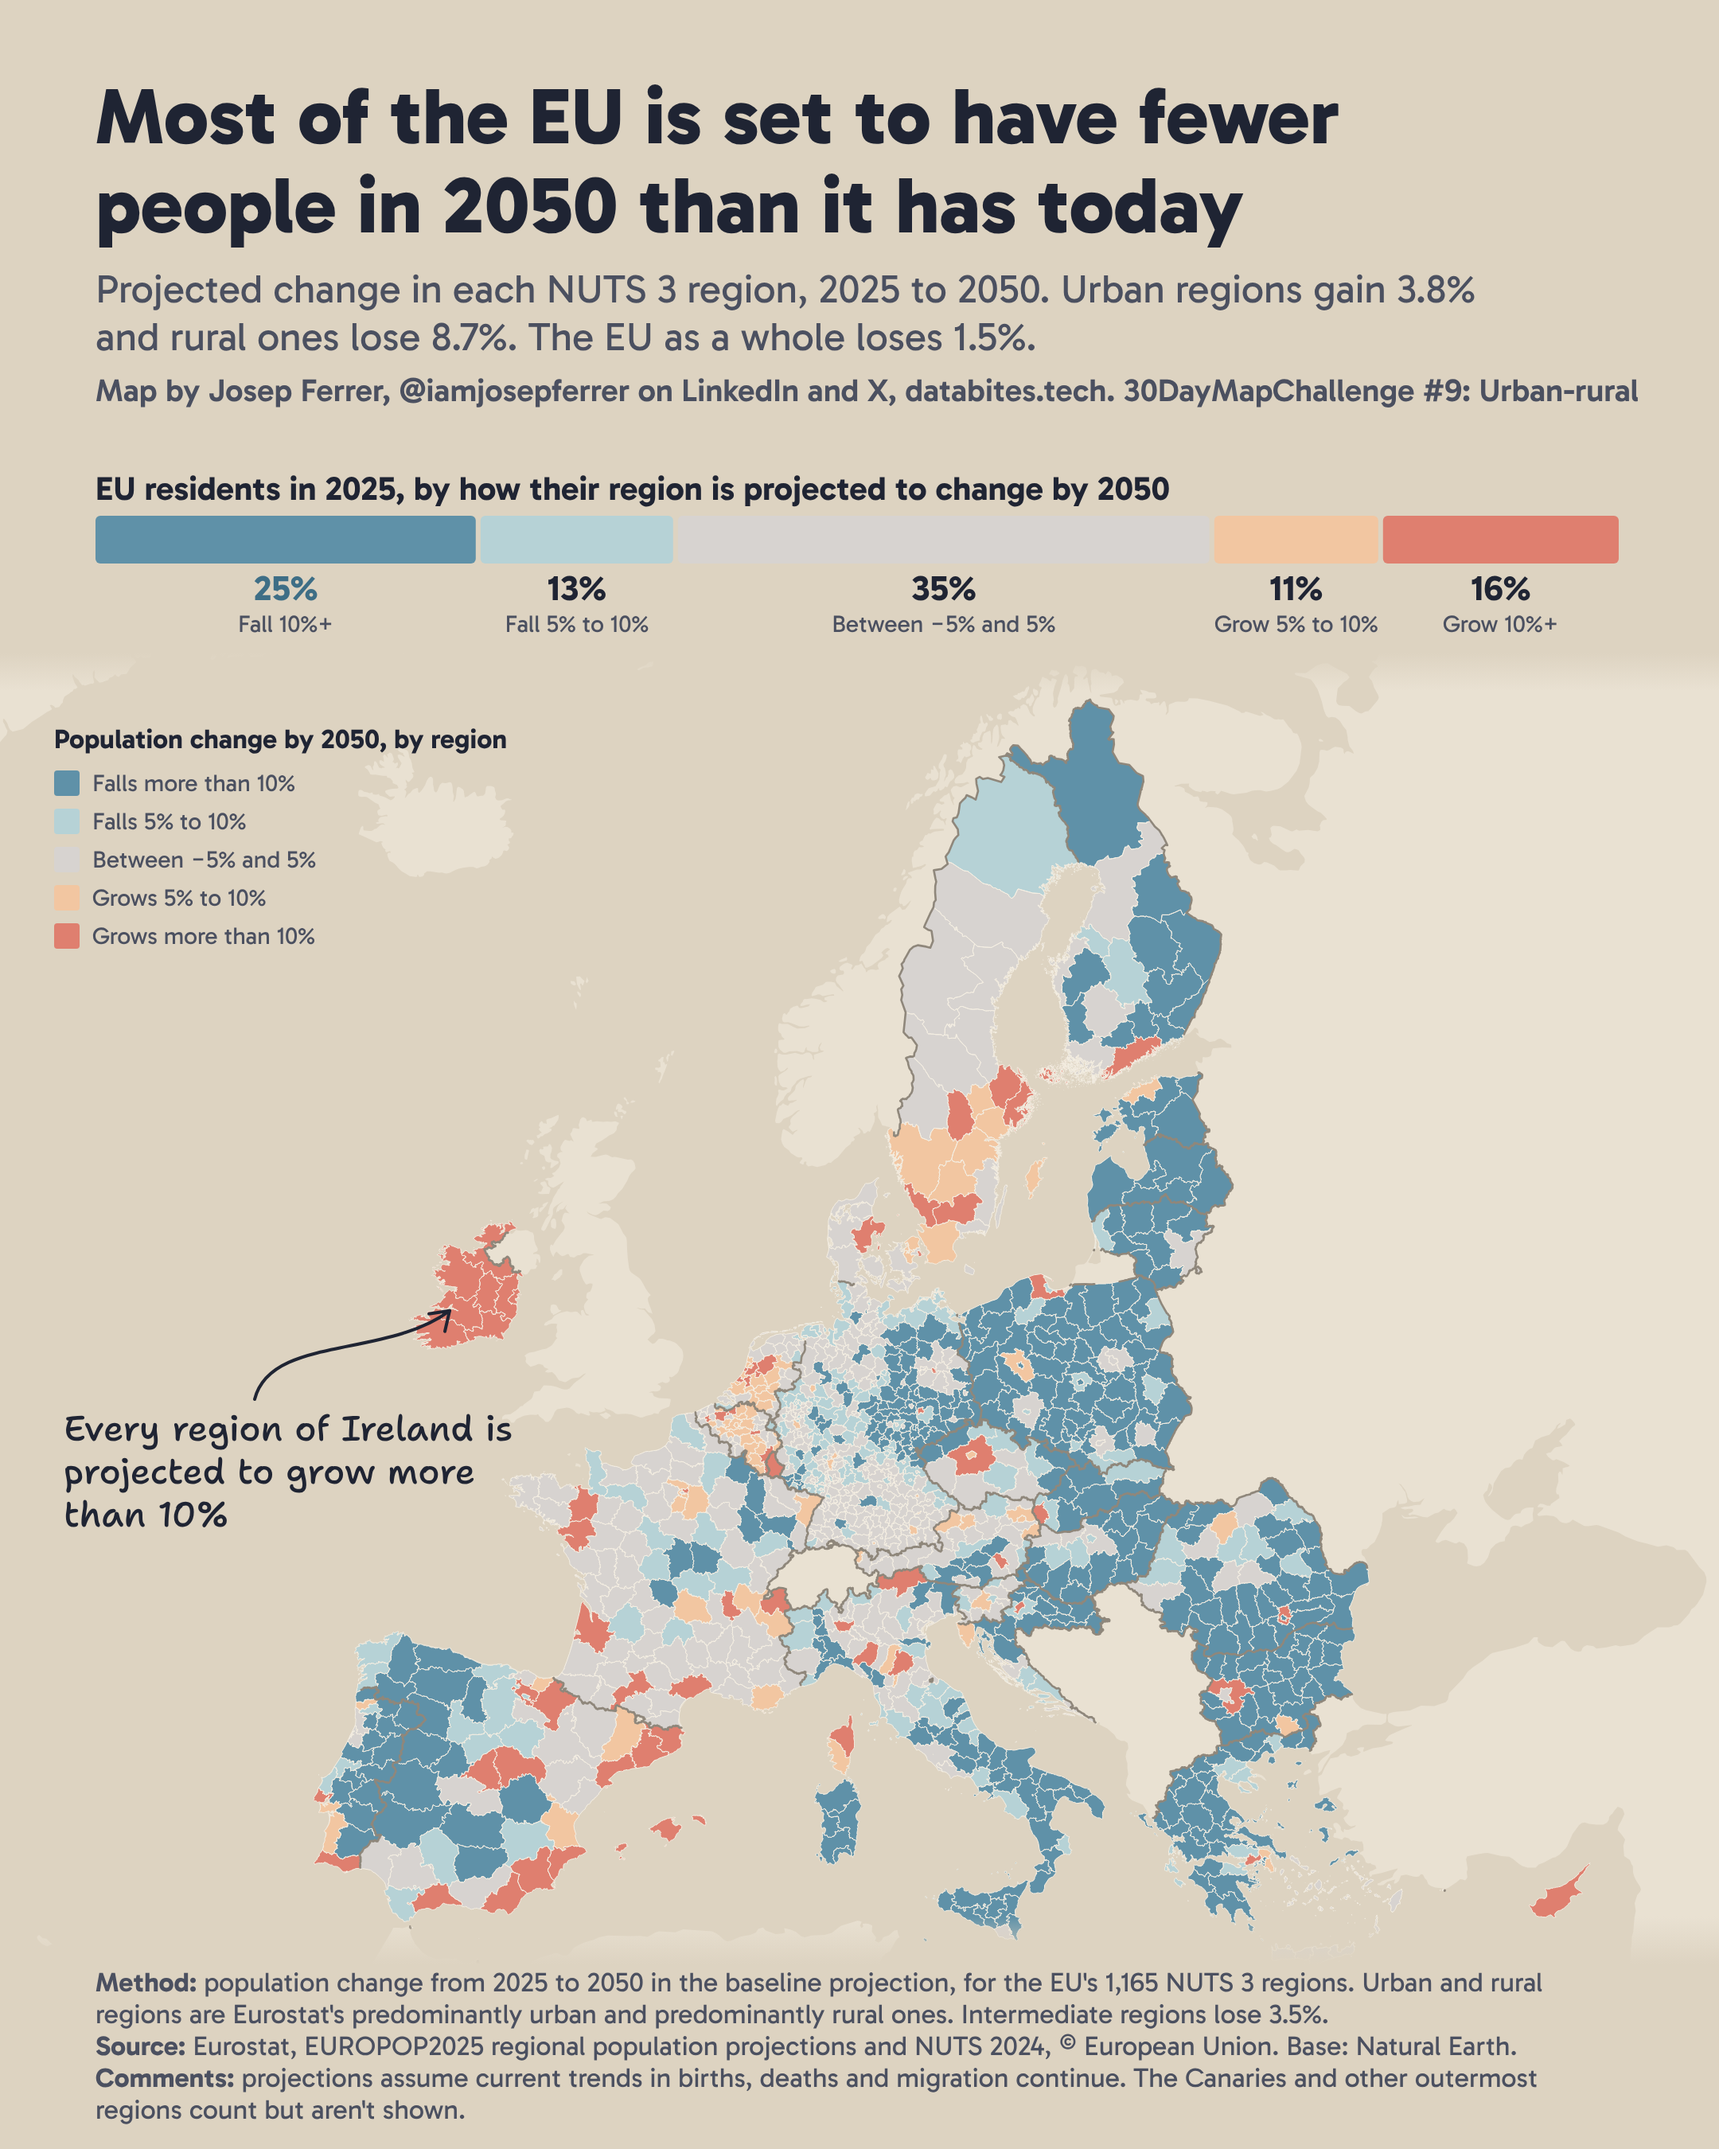
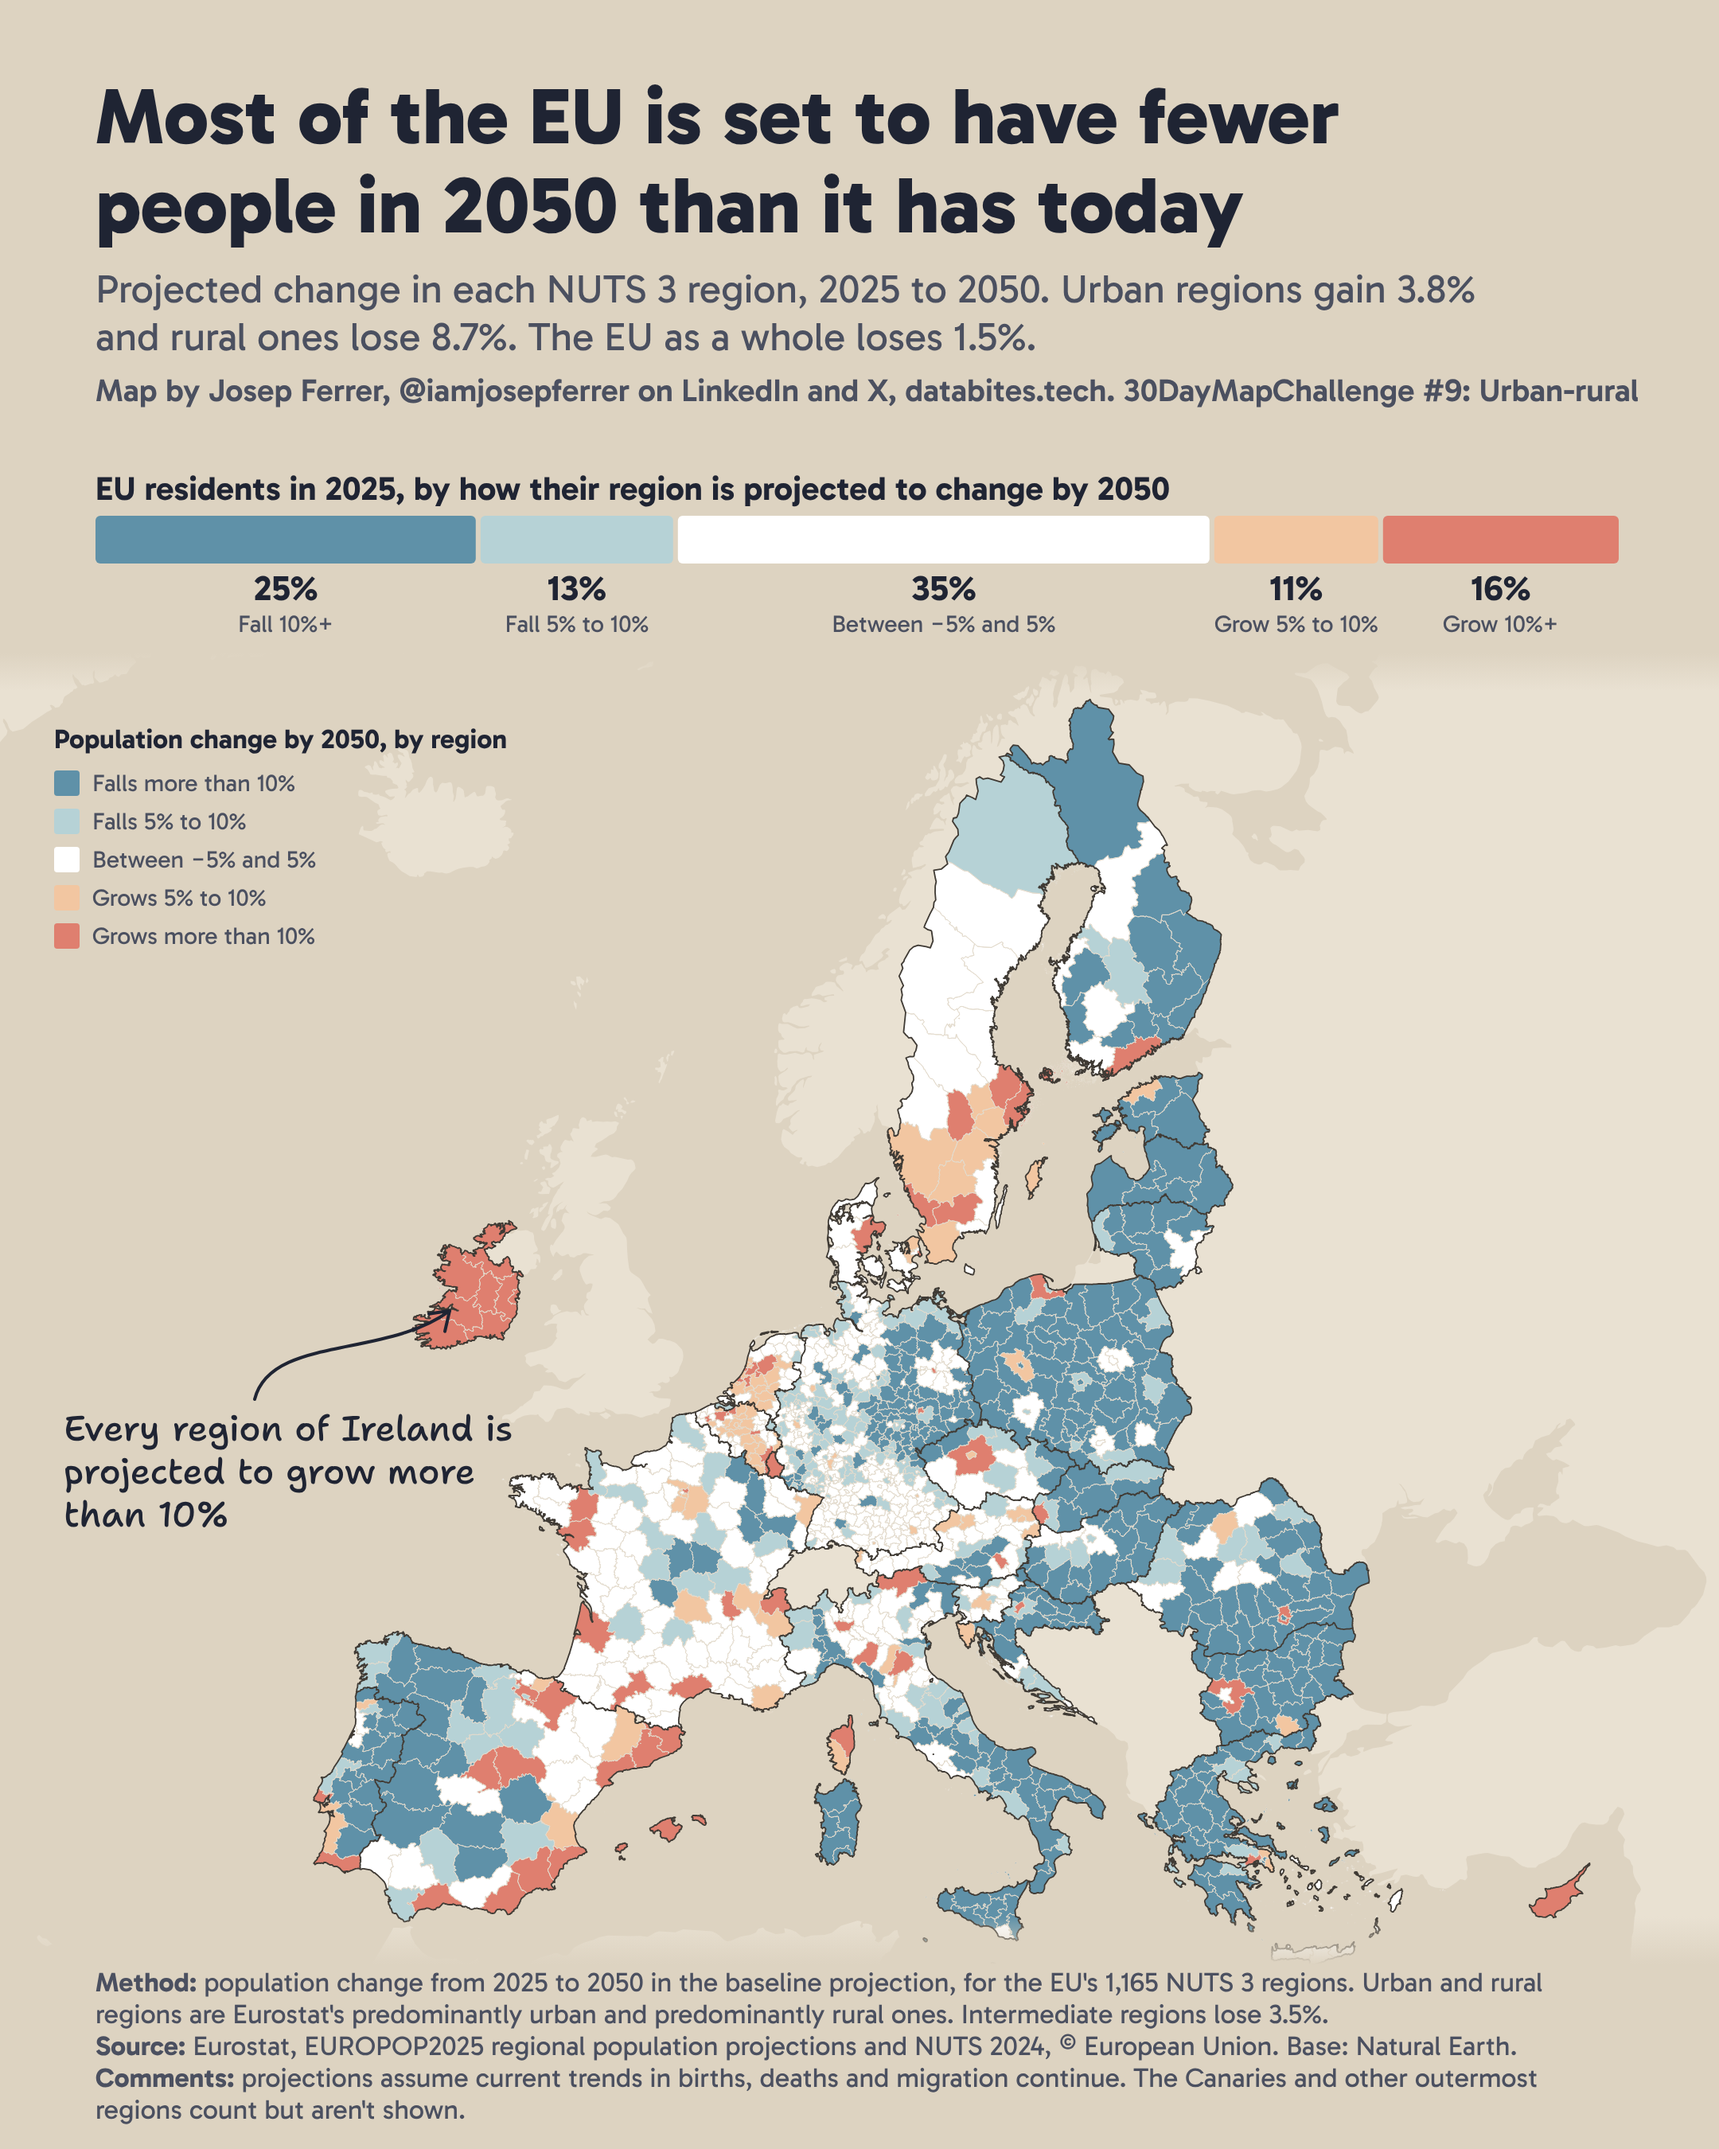
Day 9: full country outlines, white middle band, darker borders

diff --git a/2026/day09_urban_rural/day09_urban_rural.py b/2026/day09_urban_rural/day09_urban_rural.py
@@ -21,17 +21,15 @@ from style import C, DATA_DIR, Frame, _download, byline, countries, fade_defs, f
 PROJ_URL = ("https://ec.europa.eu/eurostat/api/dissemination/statistics/1.0/data/proj_25rp5"
             "?format=JSON&lang=EN&sex=T&age=TOTAL&projection=BSL&time=2025&time=2050&time=2100")
 NUTS3_URL = "https://gisco-services.ec.europa.eu/distribution/v2/nuts/geojson/NUTS_RG_01M_2024_3035_LEVL_3.geojson"
-NE = "https://raw.githubusercontent.com/nvkelso/natural-earth-vector/master/geojson/"
 YEAR = "2050"
 BANDS = [  # upper bound of the change in %, colour, legend label, bar label
     (-10, "#5F91A8", "Falls more than 10%", "Fall 10%+"),
     (-5, "#B6D2D6", "Falls 5% to 10%", "Fall 5% to 10%"),
-    (5, "#D7D3D0", "Between −5% and 5%", "Between −5% and 5%"),
+    (5, "#FFFFFF", "Between −5% and 5%", "Between −5% and 5%"),
     (10, "#F2C6A1", "Grows 5% to 10%", "Grow 5% to 10%"),
     (np.inf, "#DF7F6F", "Grows more than 10%", "Grow 10%+"),
 ]
-DARK_BLUE = "#3E6E86"  # the first band's colour, darkened for text
-BORDER = "#8F877B"  # country borders: a soft warm grey that still shows on the light grey regions
+BORDER = "#3F3A34"  # country borders: a dark warm grey, thin, so it stands apart from the strong blue and the white
 
 
 def band(change):
@@ -84,24 +82,15 @@ for b, (_, colour, _, _) in enumerate(BANDS):
     regions = shown[shown["band"] == b].geometry.simplify(300).intersection(view).union_all()
     svg.append(f'<path d="{geom_path(regions, frame)}" fill="{colour}"/>')
 outlines = "".join(geom_path(g, frame) for g in shown.geometry.simplify(300).intersection(view))
-svg.append(f'<path d="{outlines}" fill="none" stroke="{C["page"]}" stroke-width=".5" stroke-linejoin="round"/>')
-# Country borders on land, in soft grey: the parts of each EU country's outline that touch another country
+svg.append(f'<path d="{outlines}" fill="none" stroke="#E4DCCE" stroke-width=".5" stroke-linejoin="round"/>')
+# Country outlines, coasts included, in soft grey. Each shared border is drawn once, from the merged outlines.
 eu_countries = shown.dissolve("CNTR_CODE").geometry.simplify(300)
-others = gpd.read_file(_download(NE + "ne_10m_admin_0_countries.geojson", DATA_DIR / "ne_10m_admin_0_countries.geojson")).to_crs(3035).clip(view.buffer(200000))
-others = others[~others.ISO_A2_EH.isin(["AT", "BE", "BG", "HR", "CY", "CZ", "DK", "EE", "FI", "FR", "DE", "GR", "HU", "IE", "IT", "LV",
-                                        "LT", "LU", "MT", "NL", "PL", "PT", "RO", "SK", "SI", "ES", "SE"])
-                & ~others.ADMIN.str.contains("Cyprus|Dhekelia|Akrotiri|Aland")].geometry.buffer(0).union_all()  # parts of EU regions in Natural Earth
-coast = gpd.read_file(_download(NE + "ne_10m_land.geojson", DATA_DIR / "ne_10m_land.geojson")).to_crs(3035).clip(view).boundary.union_all().buffer(1500)
-codes = list(eu_countries.index)
-lines = []
-for i, code in enumerate(codes):
-    # each border is taken once, from the country that comes first alphabetically, so the two sides never overlap
-    neighbours = eu_countries.loc[codes[i + 1:]].buffer(1500).union_all().union(others.buffer(4000))
-    piece = eu_countries[code].boundary.intersection(neighbours).intersection(view).difference(coast)  # no outline for islands a strait away, such as Samos
-    piece = shapely.line_merge(piece) if piece.geom_type == "MultiLineString" else piece
-    lines += [g for g in getattr(piece, "geoms", [piece]) if g.geom_type == "LineString" and g.length > 3000]
+# islets under 50 km² keep their fill but get no outline, so archipelagos don't turn into grey smudges
+big_parts = [shapely.MultiPolygon([q for q in getattr(g, "geoms", [g]) if q.area > 50e6]) for g in eu_countries]
+outline = shapely.union_all([g.boundary for g in big_parts]).intersection(view)
+lines = [g for g in getattr(outline, "geoms", [outline]) if g.geom_type == "LineString"]
 border_d = "".join("M" + " L".join(f"{x:.1f} {y:.1f}" for x, y in (frame.xy(*c) for c in g.coords)) for g in lines)
-svg.append(f'<path d="{border_d}" fill="none" stroke="{BORDER}" stroke-width="1.3" stroke-linejoin="round" stroke-linecap="round"/>')
+svg.append(f'<path d="{border_d}" fill="none" stroke="{BORDER}" stroke-width=".9" stroke-linejoin="round" stroke-linecap="round"/>')
 svg += [fade_defs(), f'<rect x="0" y="{MAP_TOP}" width="1080" height="24" fill="url(#fade-top)"/>',
         f'<rect x="0" y="{MAP_TOP + frame.ph - 30:.0f}" width="1080" height="30" fill="url(#fade-bottom)"/>', "</g>"]
 
@@ -132,7 +121,7 @@ for b, (_, colour, _, short) in enumerate(BANDS):
     width = BAR_W * shares.get(b, 0)
     svg.append(f'<rect x="{x:.1f}" y="{BAR_Y}" width="{width - GAP:.1f}" height="{BAR_H}" rx="3" fill="{colour}"/>')
     lx = x + (width - GAP) / 2  # labels centred under their segment, so the narrow ones don't collide
-    svg.append(text(lx, BAR_Y + BAR_H + 23, f"{shares.get(b, 0):.0%}", 22, 700, DARK_BLUE if b == 0 else None, "middle"))
+    svg.append(text(lx, BAR_Y + BAR_H + 23, f"{shares.get(b, 0):.0%}", 22, 700, None, "middle"))
     svg.append(text(lx, BAR_Y + BAR_H + 43, short, 15, 400, C["ink2"], "middle"))
     x += width
 
